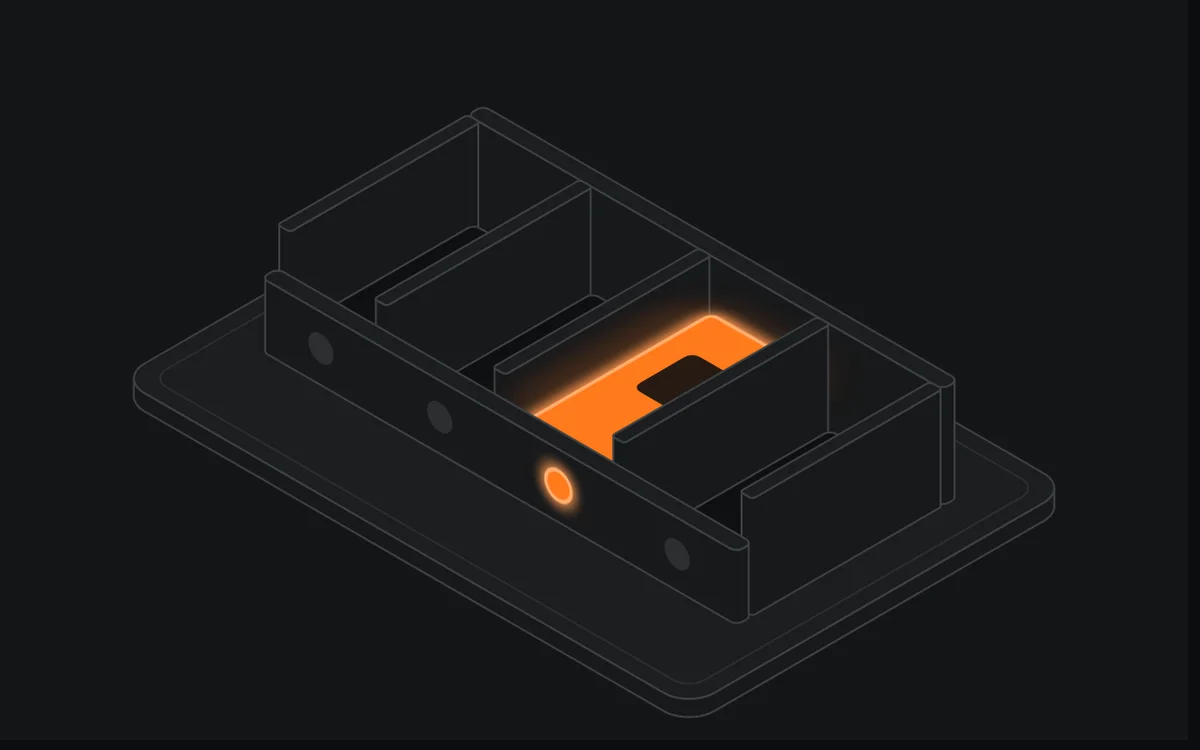
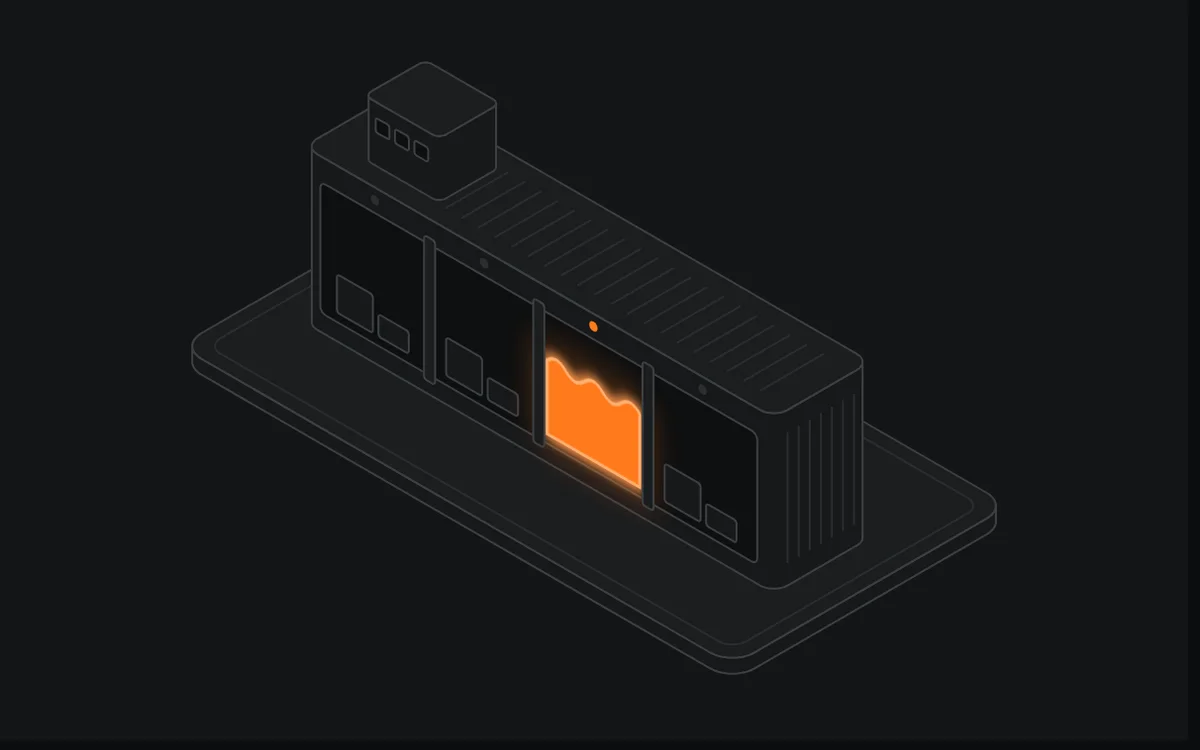
Bulkhead cover: hull cutaway with four compartments, one flooded

diff --git a/tools/covers/covers-c.js b/tools/covers/covers-c.js
@@ -112,30 +112,39 @@ FIGS.push({
   },
 });
 
-// Bulkhead: a hull split into compartments; one is flooded (lit), the others stay dry.
+// Bulkhead: a hull in cutaway; its long front face shows four compartments split by bulkheads.
+// One compartment is flooded (lit water with a wavy top); the others stay dry with their cargo.
 FIGS.push({
-  id: 'bulkhead', name: 'Bulkhead', aria: 'Casco com compartimentos, um alagado.',
+  id: 'bulkhead', name: 'Bulkhead', aria: 'Casco em corte com quatro compartimentos; um alagado, os outros secos.',
   mount(stage, api) {
-    const K = api.iso.frame([[0, 0, 0], [360, 0, 0], [0, 240, 0], [360, 240, 0], [30, 30, 120]]);
-    const { P, TOP, FRONT, SIDE, box } = K;
-    let s = box(0, 0, 0, 360, 240, 10, 16);
-    s += `<g transform="${TOP(0, 0, 10)}"><rect class="detail" x="10" y="10" width="340" height="220" rx="10"/></g>`;
-    // Open-top hull: 4 compartments along x; back and left walls first, low front wall last so the inside shows.
-    const x0 = 30, y0 = 40, W = 300, D = 140, H = 64, n = 4, cw = W / n, FLOOD = 2;
-    s += box(x0, y0, 10, W, 10, H, 4);
-    s += box(x0, y0 + 10, 10, 8, D - 20, H, 2);
-    for (let i = 0; i < n; i++) {
-      const cx = x0 + i * cw, f = i === FLOOD;
-      s += `<g transform="${TOP(cx, y0 + 10, 20)}"><rect class="face recess" x="8" y="4" width="${cw - 16}" height="${D - 24}" rx="4"/></g>`;
-      if (f) {
-        s += `<g transform="${TOP(cx, y0 + 10, 46)}"><rect class="halo hot" filter="url(#bloom)" x="-10" y="-6" width="${cw + 20}" height="${D - 8}" rx="30"/><rect class="lit" filter="url(#glow)" x="8" y="4" width="${cw - 16}" height="${D - 24}" rx="4"/><rect class="glass hot" x="22" y="30" width="${cw - 44}" height="40" rx="6"/></g>`;
+    const W = 400, D = 200, HX = 30, HY = 70, HW = 340, HD = 70, HH = 110, N = 4, WET = 2;
+    const K = api.iso.frame([[0, 0, 0], [W, 0, 0], [0, D, 0], [W, D, 0], [HX + 40, HY + 10, 10 + HH + 46]]);
+    const { TOP, FRONT, SIDE, box } = K;
+    let s = box(0, 0, 0, W, D, 10, 16);
+    s += `<g transform="${TOP(0, 0, 10)}"><rect class="detail" x="10" y="10" width="${W - 20}" height="${D - 20}" rx="10"/></g>`;
+    s += box(HX, HY, 10, HW, HD, HH, 10);                                   // hull
+    s += `<g transform="${TOP(HX, HY, 10 + HH)}">${api.iso.slits(90, HW - 20, 12, 12, HD - 12)}</g>`;
+    s += box(HX + 30, HY + 12, 10 + HH, 54, 44, 40, 5);                     // bridge on deck
+    s += `<g transform="${FRONT(HX + 30, HY + 56, 10 + HH + 40)}">${[0, 1, 2].map(i => `<rect class="face recess" x="${8 + i * 14}" y="10" width="10" height="9" rx="1.5"/>`).join('')}</g>`;
+    s += `<g transform="${SIDE(HX + HW, HY + HD, 10 + HH)}">${api.iso.slits(10, HD - 10, 8, 14, HH - 14)}</g>`;
+    // Cutaway on the front face (local u along x, v down from the deck line).
+    const M = 12, CW = (HW - 2 * M) / N, T = 16, B = HH - 12;
+    let f = `<rect class="face recess" x="${M}" y="${T}" width="${HW - 2 * M}" height="${B - T}" rx="4"/>`;
+    for (let i = 0; i < N; i++) {
+      const x0 = M + i * CW;
+      if (i === WET) {
+        const top = T + 30, wav = Array.from({ length: 5 }, (_, k) => `Q ${x0 + 6 + k * (CW - 12) / 5 + (CW - 12) / 10} ${top + (k % 2 ? 7 : -7)} ${x0 + 6 + (k + 1) * (CW - 12) / 5} ${top}`).join(' ');
+        f += `<rect class="halo hot" filter="url(#bloom)" x="${x0 - 6}" y="${top - 14}" width="${CW + 12}" height="${B - top + 20}" rx="14"/>`;
+        f += `<path class="lit" filter="url(#glow)" d="M${x0 + 6} ${top} ${wav} L${x0 + CW - 6} ${B - 6} L${x0 + 6} ${B - 6} Z"/>`;
+      } else {
+        f += `<rect class="face" x="${x0 + 12}" y="${B - 30}" width="26" height="24" rx="2"/><rect class="face" x="${x0 + 42}" y="${B - 20}" width="22" height="14" rx="2"/>`;
       }
-      if (i < n - 1) s += box(cx + cw - 4, y0 + 10, 10, 8, D - 10, H, 2);
+      if (i > 0) f += `<rect class="face top" x="${x0 - 4}" y="${T - 4}" width="8" height="${B - T + 8}" rx="2"/>`;   // bulkhead
     }
-    s += box(x0 + W - 8, y0 + 10, 10, 8, D - 20, H, 2);
-    s += box(x0, y0 + D - 10, 10, W, 10, 40, 4);
-    s += `<g transform="${FRONT(x0, y0 + D, 50)}">${[0, 1, 2, 3].map(i => `<circle class="${i === FLOOD ? 'lit' : 'led'}" ${i === FLOOD ? 'filter="url(#glow)"' : ''} cx="${cw / 2 + i * cw}" cy="20" r="8"/>`).join('')}</g>`;
-    stage.setAttribute('viewBox', cover(K)); stage.innerHTML = s;
+    // Waterline LEDs along the hull: lit only under the flooded compartment.
+    for (let i = 0; i < N; i++) f += `<circle class="led ${i === WET ? 'hot' : ''}" cx="${M + i * CW + CW / 2}" cy="${T - 8}" r="3"/>`;
+    s += `<g transform="${FRONT(HX, HY + HD, 10 + HH)}">${f}</g>`;
+    stage.setAttribute('viewBox', cover(K, -0.02)); stage.innerHTML = s;
     return {};
   },
 });
